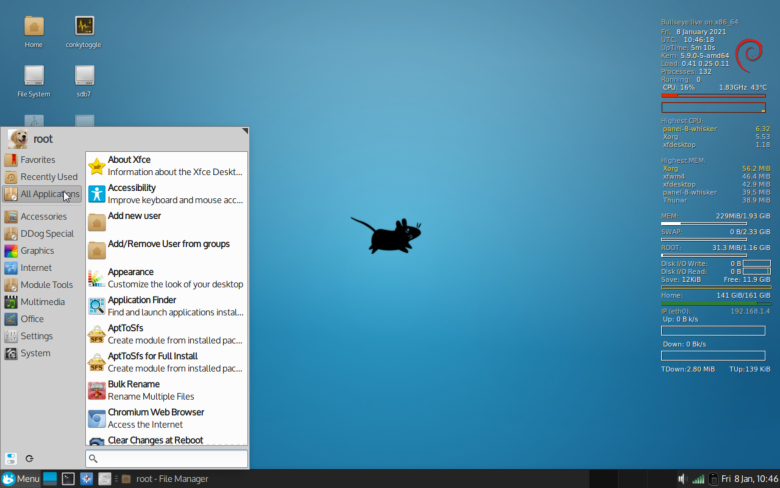
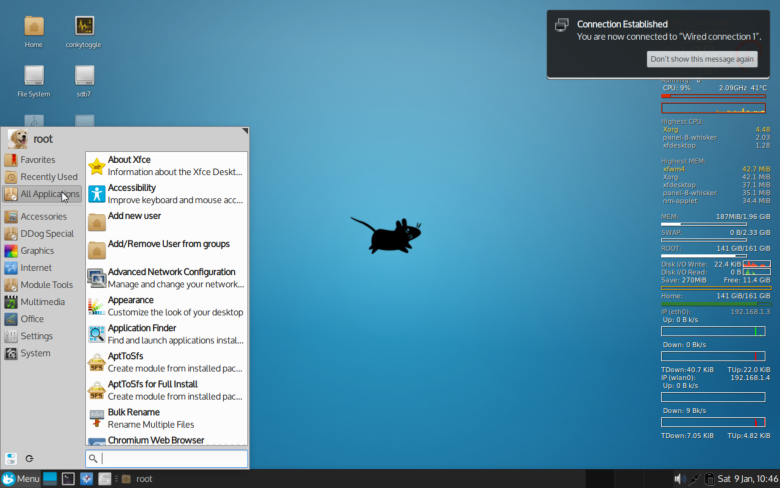
Update repo

diff --git a/index.html b/index.html
@@ -74,7 +74,7 @@ p.big {
 <a href="modules-bullseye">modules-bullseye/</a>                                                         07-Jan-2021 21:50     -
 <a href="modules-buster">modules-buster/</a>                                                           27-Oct-2019  0:26     -
 <a href="modules">modules/</a>                                                                  19-Sep-2019 13:27     -
-<a href="screenshots-bullseye">screenshots-bullseye/</a>                                                     08-Jan-2021 16:04     -
+<a href="screenshots-bullseye">screenshots-bullseye/</a>                                                     09-Jan-2021 11:56     -
 <a href="screenshots">screenshots/</a>                                                              19-Sep-2019 13:25     -
 <a href="thunar">thunar/</a>                                                                   19-Sep-2019 13:25     -
 </font></p>

diff --git a/screenshots-bullseye/index.html b/screenshots-bullseye/index.html
@@ -12,6 +12,6 @@ p.big {
 <a href="mklive-bullseye-de_config.png">mklive-bullseye-de_config.png</a>                                             07-Jan-2021 21:59     82K
 <a href="mklive-bullseye-packages.png">mklive-bullseye-packages.png</a>                                              07-Jan-2021 22:00     73K
 <a href="openbox-minimal.png">openbox-minimal.png</a>                                                       07-Jan-2021 21:01     164K
-<a href="xfce4-minimal.png">xfce4-minimal.png</a>                                                         08-Jan-2021 16:03     223K
+<a href="xfce4-minimal.png">xfce4-minimal.png</a>                                                         09-Jan-2021 11:56     229K
 </font></p>
 </pre><address>Github Server at https://debiandog.github.io/</address></body></html>

diff --git a/configs-bullseye/index.html b/configs-bullseye/index.html
@@ -15,6 +15,6 @@ p.big {
 <a href="jwm.conf">jwm.conf</a>                                                                  05-Jan-2021 21:21     2.8K
 <a href="obdog.conf">obdog.conf</a>                                                                07-Jan-2021 18:57     4.8K
 <a href="openbox_lx.conf">openbox_lx.conf</a>                                                           05-Jan-2021 21:24     2.8K
-<a href="xfce4.conf">xfce4.conf</a>                                                                03-Jan-2021 22:39     2.7K
+<a href="xfce4.conf">xfce4.conf</a>                                                                09-Jan-2021 11:58     2.8K
 </font></p>
 </pre><address>Github Server at https://debiandog.github.io/</address></body></html>
